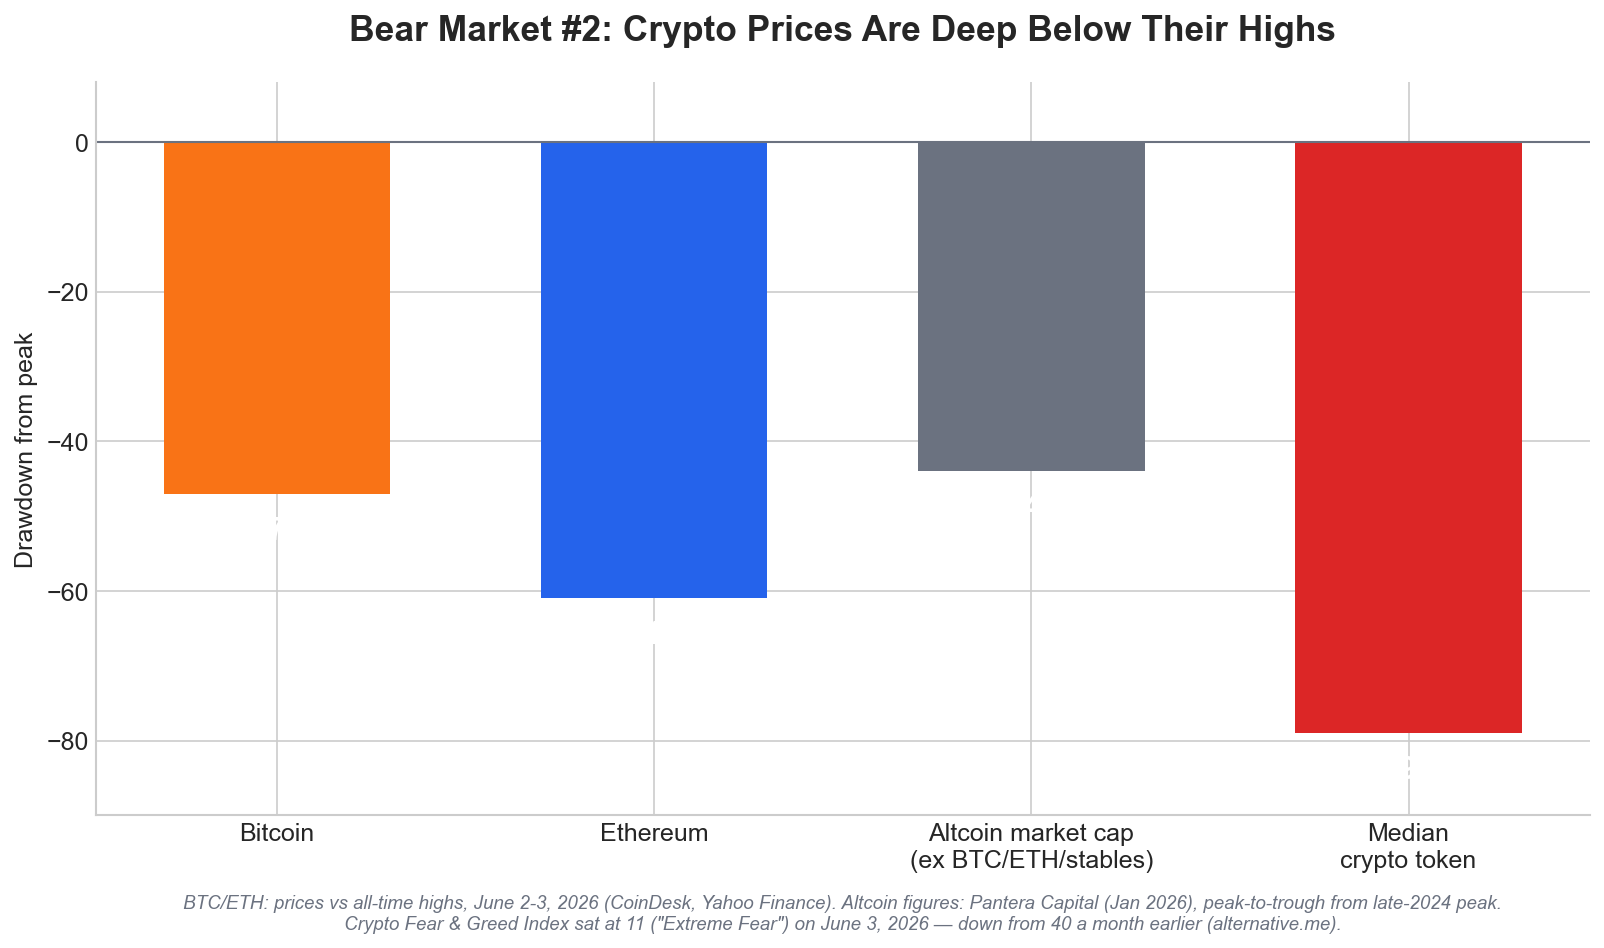
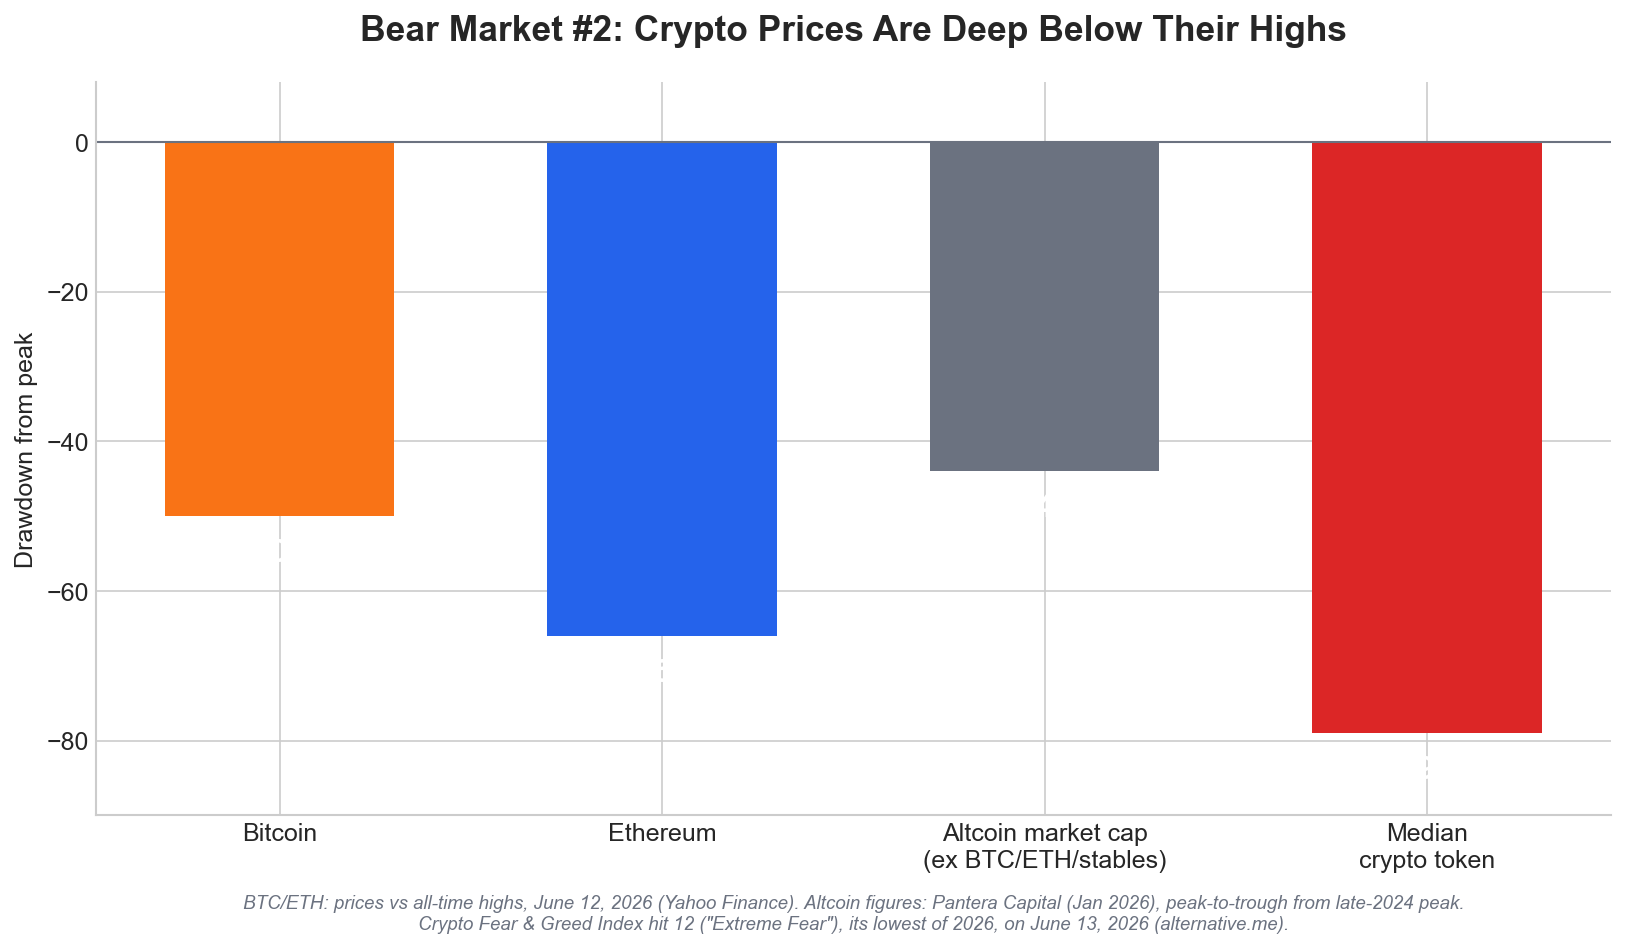
Refresh crypto price/sentiment figures to June 12-13, 2026
BTC ~$63,553 (~50% below ATH), ETH ~$1,672 (~66% below ATH),
Fear & Greed 12 (lowest of 2026). Deeper drawdowns than the
prior Jun 2-3 snapshot; regenerated c2 chart.

diff --git a/generate_crypto_blog_charts.py b/generate_crypto_blog_charts.py
@@ -99,21 +99,21 @@ def chart_1_labor_bear_market():
 
 
 def chart_2_crypto_drawdown():
-    """How far crypto prices are off their highs (June 2-3, 2026).
+    """How far crypto prices are off their highs (June 12, 2026).
 
     Sources:
-    - BTC ~$65,853 on Jun 3 2026, ~47% below ATH ~$126,000 (Oct 6 2025).
-      news.bitcoin.com / CoinDesk / Fortune.
-    - ETH ~$1,922 on Jun 2 2026, ~61% below ATH $4,953.73 (Aug 24 2025).
-      Yahoo Finance / TradingView / CoinCodex.
+    - BTC ~$63,553 on Jun 12 2026, ~50% below ATH $126,198 (Oct 6 2025).
+      Yahoo Finance.
+    - ETH ~$1,672 on Jun 12 2026, ~66% below ATH $4,953.73 (Aug 24 2025).
+      Yahoo Finance.
     - Median altcoin -79% from late-2024 peak; altcoin mkt cap (ex BTC/ETH/stables)
       -44% from that peak. Pantera Capital Blockchain Letter (Jan 2026).
-    - Crypto Fear & Greed Index = 11 ("Extreme Fear") on Jun 3 2026. alternative.me.
+    - Crypto Fear & Greed Index = 12 ("Extreme Fear"), lowest of 2026, Jun 13 2026. alternative.me.
     """
     fig, ax = plt.subplots(figsize=(11, 6.5))
 
     labels = ['Bitcoin', 'Ethereum', 'Altcoin market cap\n(ex BTC/ETH/stables)', 'Median\ncrypto token']
-    drawdowns = [-47, -61, -44, -79]  # % below respective peaks
+    drawdowns = [-50, -66, -44, -79]  # % below respective peaks
     colors = [REZSCORE_ORANGE, REZSCORE_BLUE, GRAY, DANGER_RED]
 
     bars = ax.bar(labels, drawdowns, color=colors, width=0.6)
@@ -129,9 +129,9 @@ def chart_2_crypto_drawdown():
 
     # Fear & Greed callout
     ax.text(0.5, -0.155,
-            'BTC/ETH: prices vs all-time highs, June 2-3, 2026 (CoinDesk, Yahoo Finance). '
+            'BTC/ETH: prices vs all-time highs, June 12, 2026 (Yahoo Finance). '
             'Altcoin figures: Pantera Capital (Jan 2026), peak-to-trough from late-2024 peak.\n'
-            'Crypto Fear & Greed Index sat at 11 ("Extreme Fear") on June 3, 2026 — down from 40 a month earlier (alternative.me).',
+            'Crypto Fear & Greed Index hit 12 ("Extreme Fear"), its lowest of 2026, on June 13, 2026 (alternative.me).',
             ha='center', fontsize=9, color=GRAY, style='italic', transform=ax.transAxes)
 
     ax.spines['top'].set_visible(False)

diff --git a/README.md b/README.md
@@ -23,7 +23,7 @@ our standard, we dropped it. We say so explicitly below.
  developers fell ~20% from their late-2022 peak.
 - **Crypto's price chart says capitulation; its money flow says records.**
  Stablecoin market cap hit an all-time high ($317B, Mar 2026) and institutions
- are tokenizing real assets - even as BTC sits ~47% below its high and the
+ are tokenizing real assets - even as BTC sits ~50% below its high and the
  Fear & Greed Index reads "Extreme Fear."
 - **VC funding is off its peak but still billions.** ~$30B/yr at the 2021-22 peak
  → ~$16B annualized pace in 2026.
@@ -48,9 +48,9 @@ our standard, we dropped it. We say so explicitly below.
 ### Crypto prices & sentiment
 | Claim | Figure | Source | As of |
 |-------|--------|--------|-------|
-| Bitcoin price vs ATH | ~$65,853, ~47% below ~$126,000 ATH (Oct 2025) | news.bitcoin.com, CoinDesk, Fortune | Jun 3, 2026 |
-| Ethereum price vs ATH | ~$1,922, ~61% below $4,953.73 ATH (Aug 2025) | Yahoo Finance, TradingView, CoinCodex | Jun 2, 2026 |
-| Crypto Fear & Greed Index | 11 ("Extreme Fear"), down from 40 a month earlier | [alternative.me](https://alternative.me/crypto/fear-and-greed-index/) | Jun 3, 2026 |
+| Bitcoin price vs ATH | ~$63,553, ~50% below ~$126,198 ATH (Oct 2025) | [Yahoo Finance](https://finance.yahoo.com/personal-finance/investing/article/bitcoin-and-ethereum-prices-today-friday-june-12-2026-prices-rebound-this-morning-after-trump-claims-war-has-ended-115949042.html) | Jun 12, 2026 |
+| Ethereum price vs ATH | ~$1,672, ~66% below $4,953.73 ATH (Aug 2025) | [Yahoo Finance](https://finance.yahoo.com/personal-finance/investing/article/bitcoin-and-ethereum-prices-today-friday-june-12-2026-prices-rebound-this-morning-after-trump-claims-war-has-ended-115949042.html) | Jun 12, 2026 |
+| Crypto Fear & Greed Index | 12 ("Extreme Fear"), lowest reading of 2026 | [alternative.me](https://alternative.me/crypto/fear-and-greed-index/) | Jun 13, 2026 |
 | Median crypto token | -79% from late-2024 peak | [Pantera Capital Blockchain Letter](https://panteracapital.com/blockchain-letter/navigating-crypto-in-2026/) | Jan 2026 |
 | Altcoin mkt cap (ex BTC/ETH/stables) | -44% from late-2024 peak | Pantera Capital Blockchain Letter | Jan 2026 |
 
